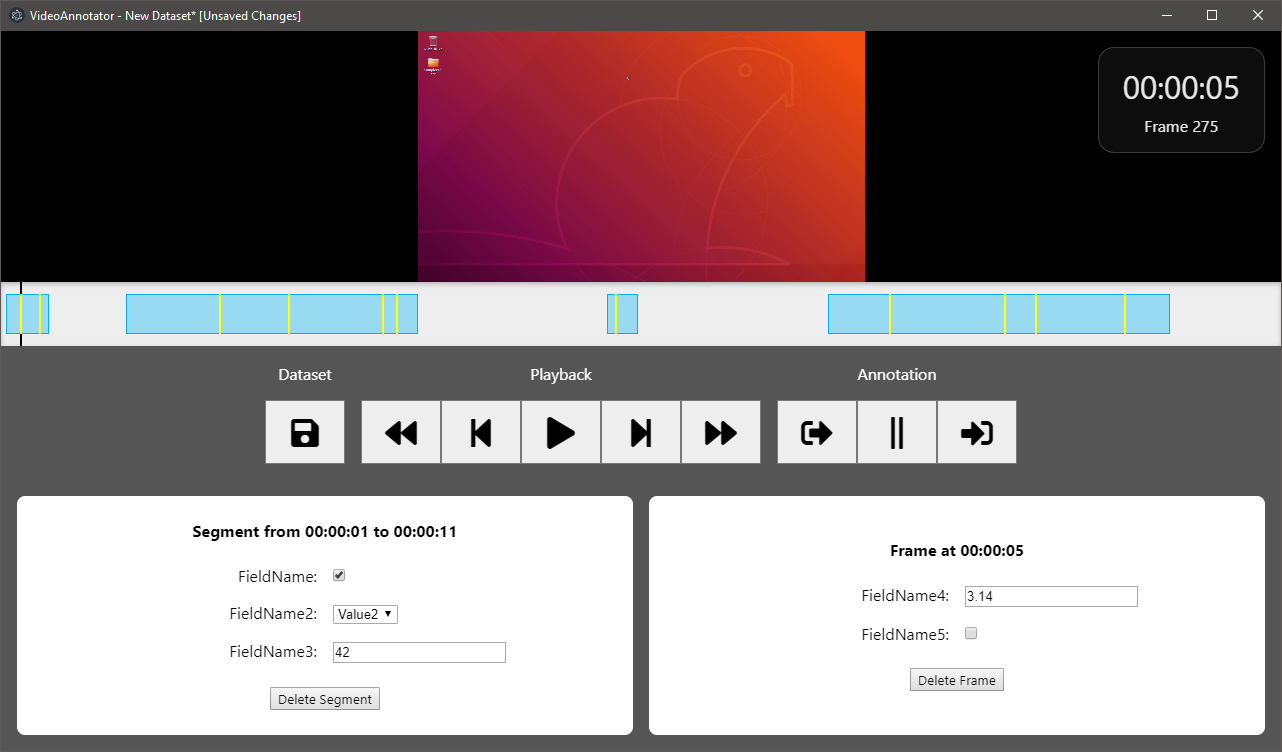
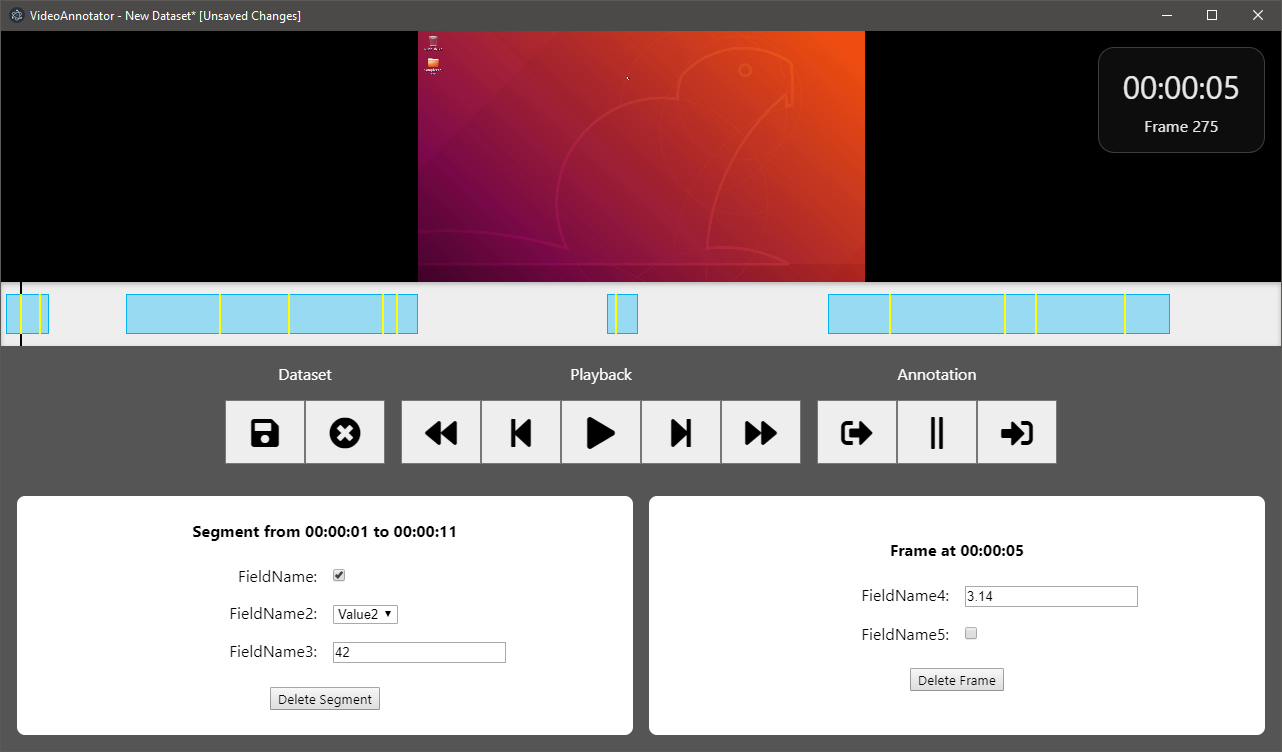
Document the new close button

Changed region(s): [[0.156, 0.5199, 0.8424, 0.6423], [0.6552, 0.4894, 0.7488, 0.5199], [0.4056, 0.4894, 0.4992, 0.5199]]

diff --git a/README.md b/README.md
@@ -75,7 +75,7 @@ The window is laid out as follows:
 
 - The video itself is at the top of the window, with an overlay in the top-right indicating the current playback position and frame number.
 - The timeline is displayed immediately below the video, which includes a vertical line indicating the current playback position and indicators for any annotated segments and frames in the dataset.
-- A row of controls are displayed below the timeline, including a save button, playback controls, and annotation controls for defining segments and marking individual frames for annotation.
+- A row of controls are displayed below the timeline, including a save button, a close button, playback controls, and annotation controls for defining segments and marking individual frames for annotation.
 - Two boxes are displayed at the bottom of the window. The box on the left displays the metadata input controls for the currently selected segment (if any) and the box on the right displays the metadata input controls for the currently selected frame (if any.)
 
 The workflow for annotating a video commonly involves the following steps:
@@ -87,7 +87,7 @@ The workflow for annotating a video commonly involves the following steps:
 5. Use the frame metadata input controls to set the metadata values for the current frame.
 6. Repeat as necessary for additional frames or segments.
 
-Once you have finished annotating a video then you can save the dataset by clicking the "Save the dataset" button and specifying an output filename. VideoAnnotator datasets are stored in JSON format for easy ingestion by data processing and transformation pipelines.
+Once you have finished annotating a video then you can save the dataset by clicking the "Save the dataset" button and specifying an output filename. VideoAnnotator datasets are stored in JSON format for easy ingestion by data processing and transformation pipelines. If you would like to annotate another video then you can click the "Close the dataset" button to return to the dataset selection screen.
 
 
 ## Building VideoAnnotator from source
